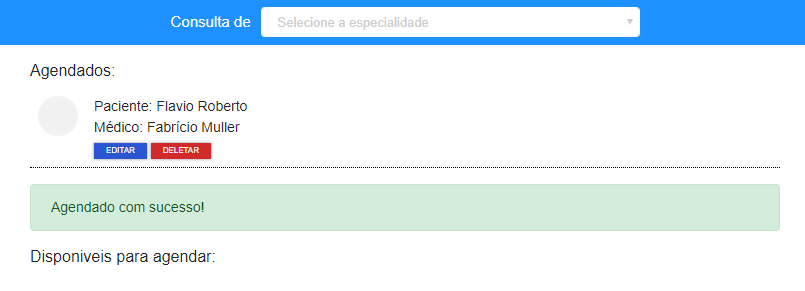
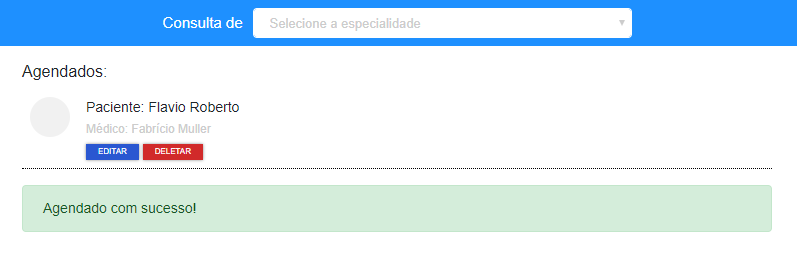
atualizando arquivos.

diff --git a/js/script.js b/js/script.js
@@ -1,6 +1,14 @@
 $(document).ready(function () {
     history.pushState("", "", "/");
 
+    if($(".h6_Agendados").attr('name') == 0){
+        $(".h6_Agendados").hide();
+        $(".linha").hide()
+    }else{
+        $(".h6_Agendados").show();
+        $(".linha").show()
+    }
+
     const token = "eyJ0eXAiOiJKV1QiLCJhbGciOiJIUzI1NiJ9.eyJpc3MiOiJmZWVnb3ciLCJhdWQiOiJwdWJsaWNhcGkiLCJpYXQiOiIxNy0wOC0yMDE4IiwibGljZW5zZUlEIjoiMTA1In0.UnUQPWYchqzASfDpVUVyQY0BBW50tSQQfVilVuvFG38";
     //Consultar Médicos Agendados
     if(document.querySelectorAll('.medico').length !== 0){
@@ -64,6 +72,7 @@ $(document).ready(function () {
                 xhr.setRequestHeader('x-access-token', token);
             },
             success: function (result) {
+                $(".h6_Disponiveis").show()
                 for (let i = 0; i < result.content.length; i++) {
                     let nome = result.content[i].nome
                     //Alguns dados estao com o sexo errado
@@ -80,11 +89,12 @@ $(document).ready(function () {
                         if (result.content[i].especialidades[c].especialidade_id == $("#especialidades").val()) {
                             $(".agendados").append(`<div class="d-flex flex-row result"><div class="p-2 bd-highlight"><div style="background: #f1f1f1;width: 40px;height: 40px;" class="rounded-circle"></div></div><div class="p-2 bd-highlight">
                         ${nome} 
-                        <br/> CRM: ${crm}<br/><button type="button" id="agendar" class="agendar" onclick="agendar(${result.content[i].profissional_id},${result.content[i].especialidades[c].especialidade_id})" data-toggle="modal" data-target="#abreModal">agendar</button></div></div>`);
+                        <br/> <span class="crm"> CRM: ${crm} </span> <br/><button type="button" id="agendar" class="agendar" onclick="agendar(${result.content[i].profissional_id},${result.content[i].especialidades[c].especialidade_id})" data-toggle="modal" data-target="#abreModal">agendar</button></div></div>`);
                         }
                     }
                 }
             }, error: function (error) {
+                $(".h6_Disponiveis").hide()
                 alert(error);
             }
         });

diff --git a/app.js b/app.js
@@ -18,7 +18,7 @@ app.get('/:id?', function(req, res){
     // res.render('index', {now: new Date().toLocaleString()});
     if(!req.params.id){
         sql.query("select * from agendarprofissional", function(err, results, fields){
-            res.render('index',{data:results , now: new Date().toLocaleString()});
+            res.render('index',{data:results , now: new Date().toLocaleString(), TemDado: results.length});
         })
     }
 })
@@ -34,13 +34,13 @@ app.post('/salvar',urlencodeParser,function(req,res){
     sql.query('insert into agendarprofissional values(?,?,?,?,?,?,?,?)', ["",req.body.specialty_id,req.body.profissional_id,req.body.nome,
     req.body.cpf,req.body.source_id,req.body.birthdate,req.body.date_time]);
     sql.query("select * from agendarprofissional", function(err, results, fields){
-        res.render('index',{data:results , now: new Date().toLocaleString(),result: "adicionado"});
+        res.render('index',{data:results , now: new Date().toLocaleString(),result: "adicionado", TemDado: results.length});
     })
 })
 app.get('/deletar/:id', function(req, res){
     sql.query("delete from agendarprofissional where agendarProfissional_id=?",[req.params.id]);
     sql.query("select * from agendarprofissional", function(err, results, fields){
-        res.render('index',{data:results , now: new Date().toLocaleString(),result: "deletado"});
+        res.render('index',{data:results , now: new Date().toLocaleString(),result: "deletado", TemDado: results.length});
     })
 })
 
@@ -48,7 +48,7 @@ app.post("/update/:id", urlencodeParser, function(req,res){
     sql.query("update agendarprofissional ap set ap.name=?,ap.source_id=?,ap.birthdate=?,ap.cpf=? where ap.agendarProfissional_id=?",
     [req.body.nome, req.body.source_id, req.body.birthdate, req.body.cpf, req.body.ap_id])
     sql.query("select * from agendarprofissional", function(err, results, fields){
-        res.render('index',{data:results , now: new Date().toLocaleString(),result: "atualizado"});
+        res.render('index',{data:results , now: new Date().toLocaleString(),result: "atualizado", TemDado: results.length});
     })
 })
 

diff --git a/css/style.css b/css/style.css
@@ -92,3 +92,8 @@ body{
   .modal-title {
       font-weight: 700;
   }
+
+.medico, .crm {
+  color: #ccc;
+  font-size: 12px;
+}
